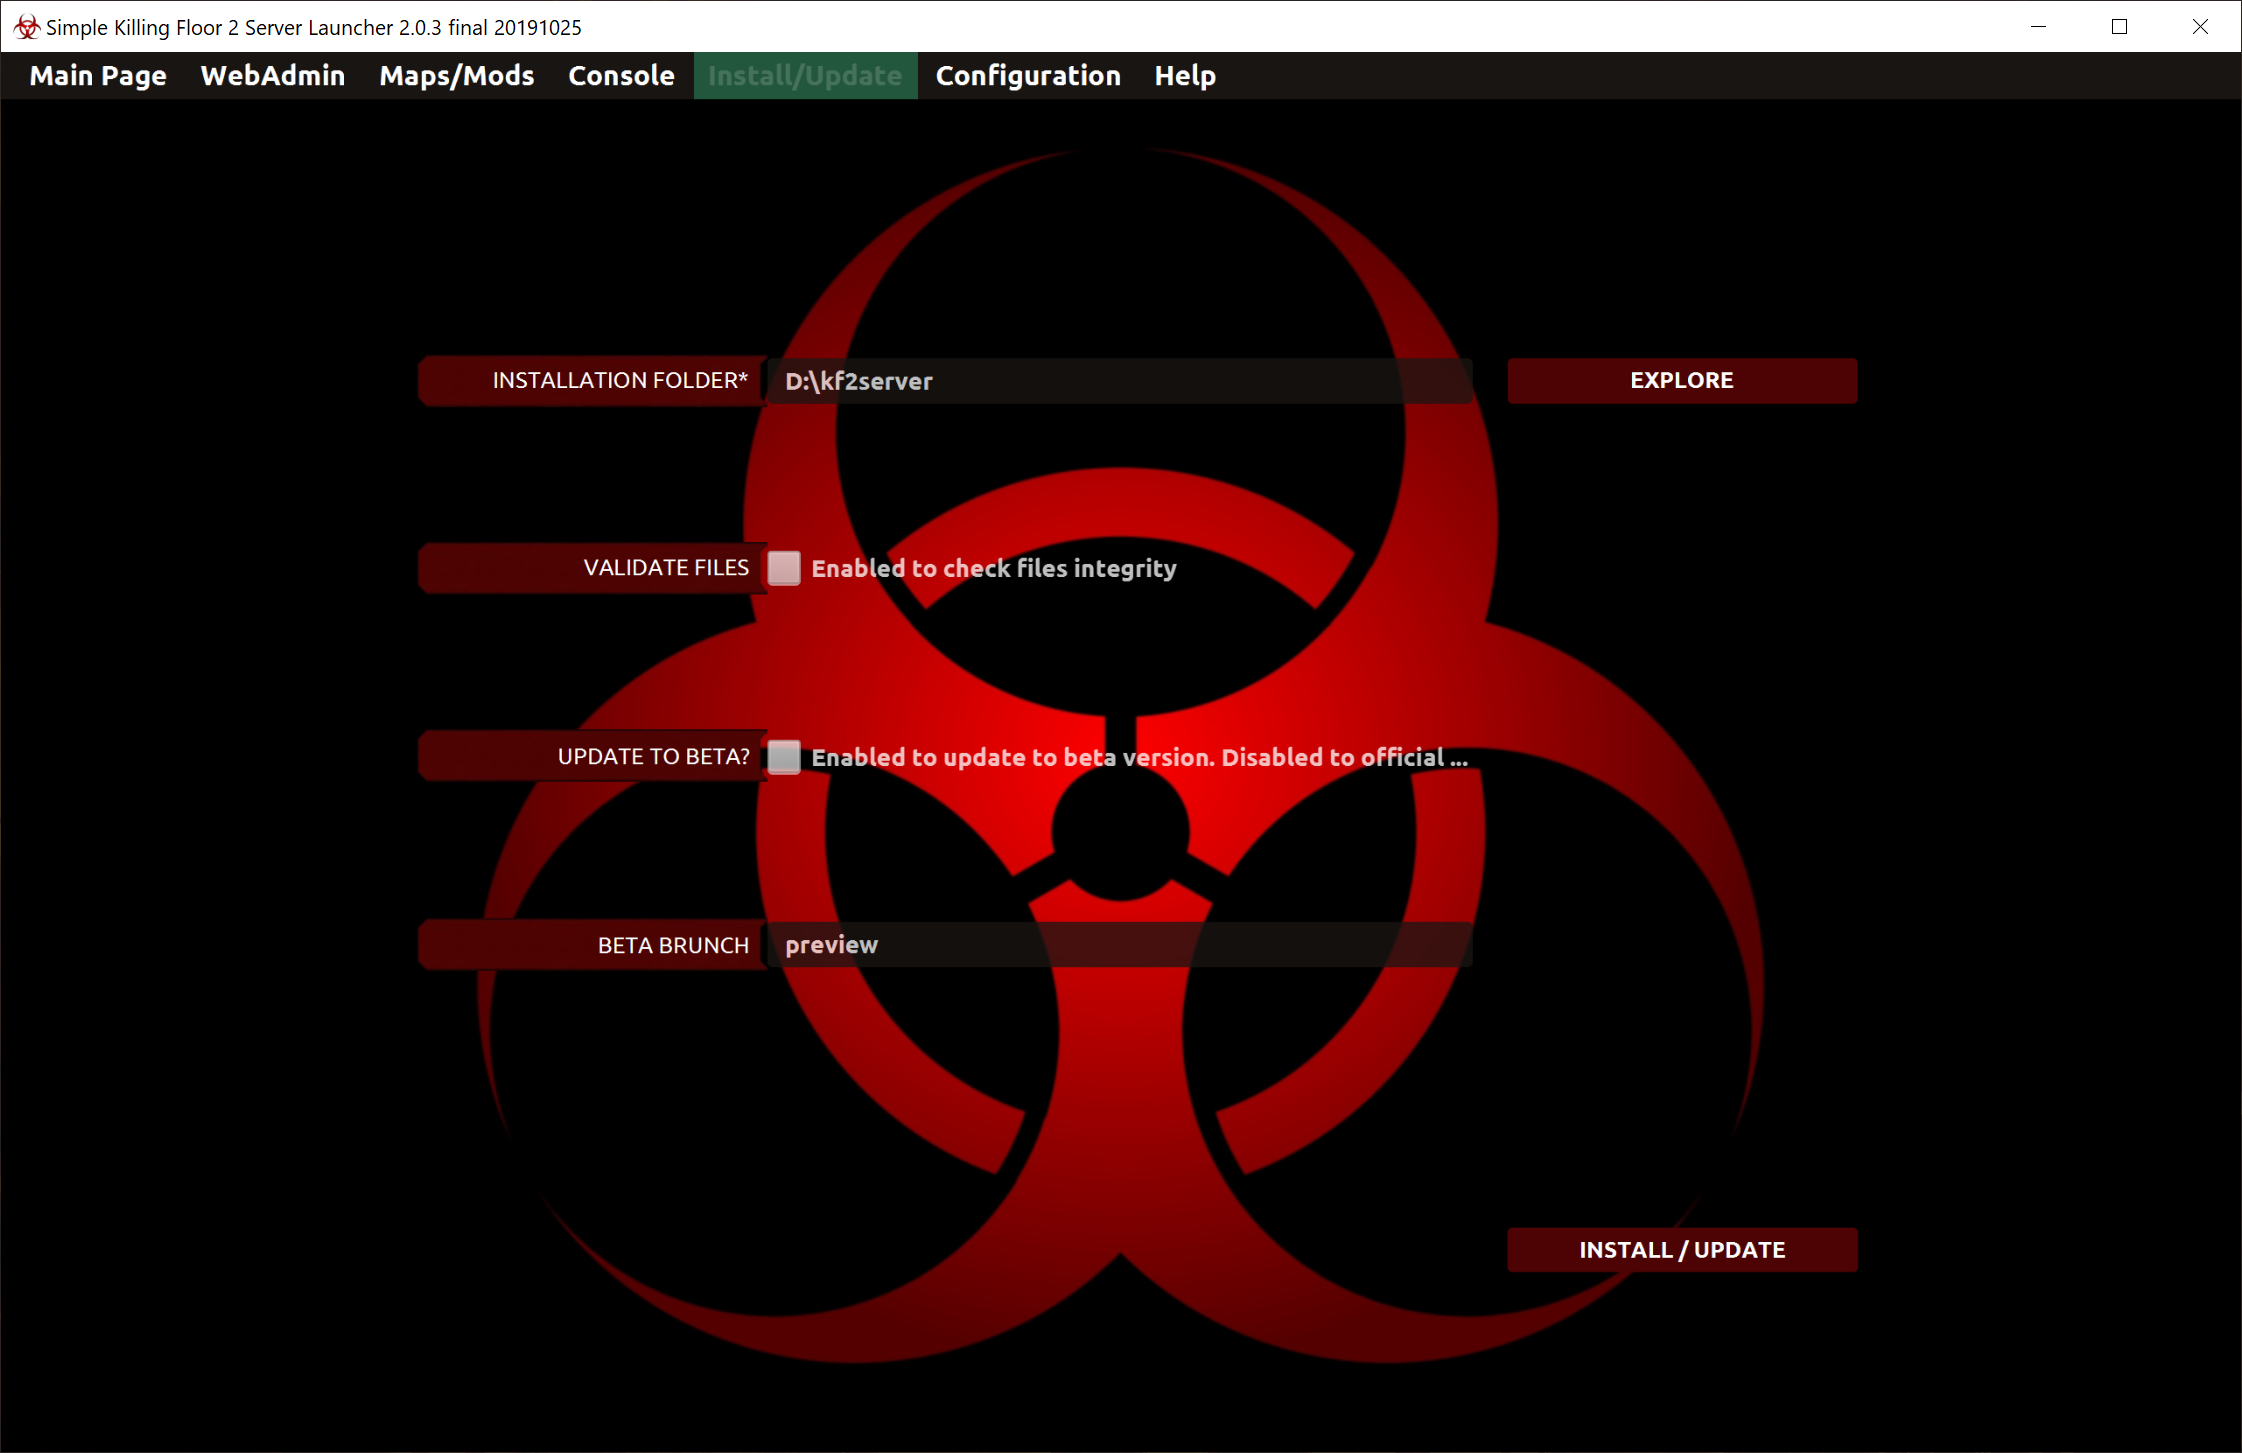
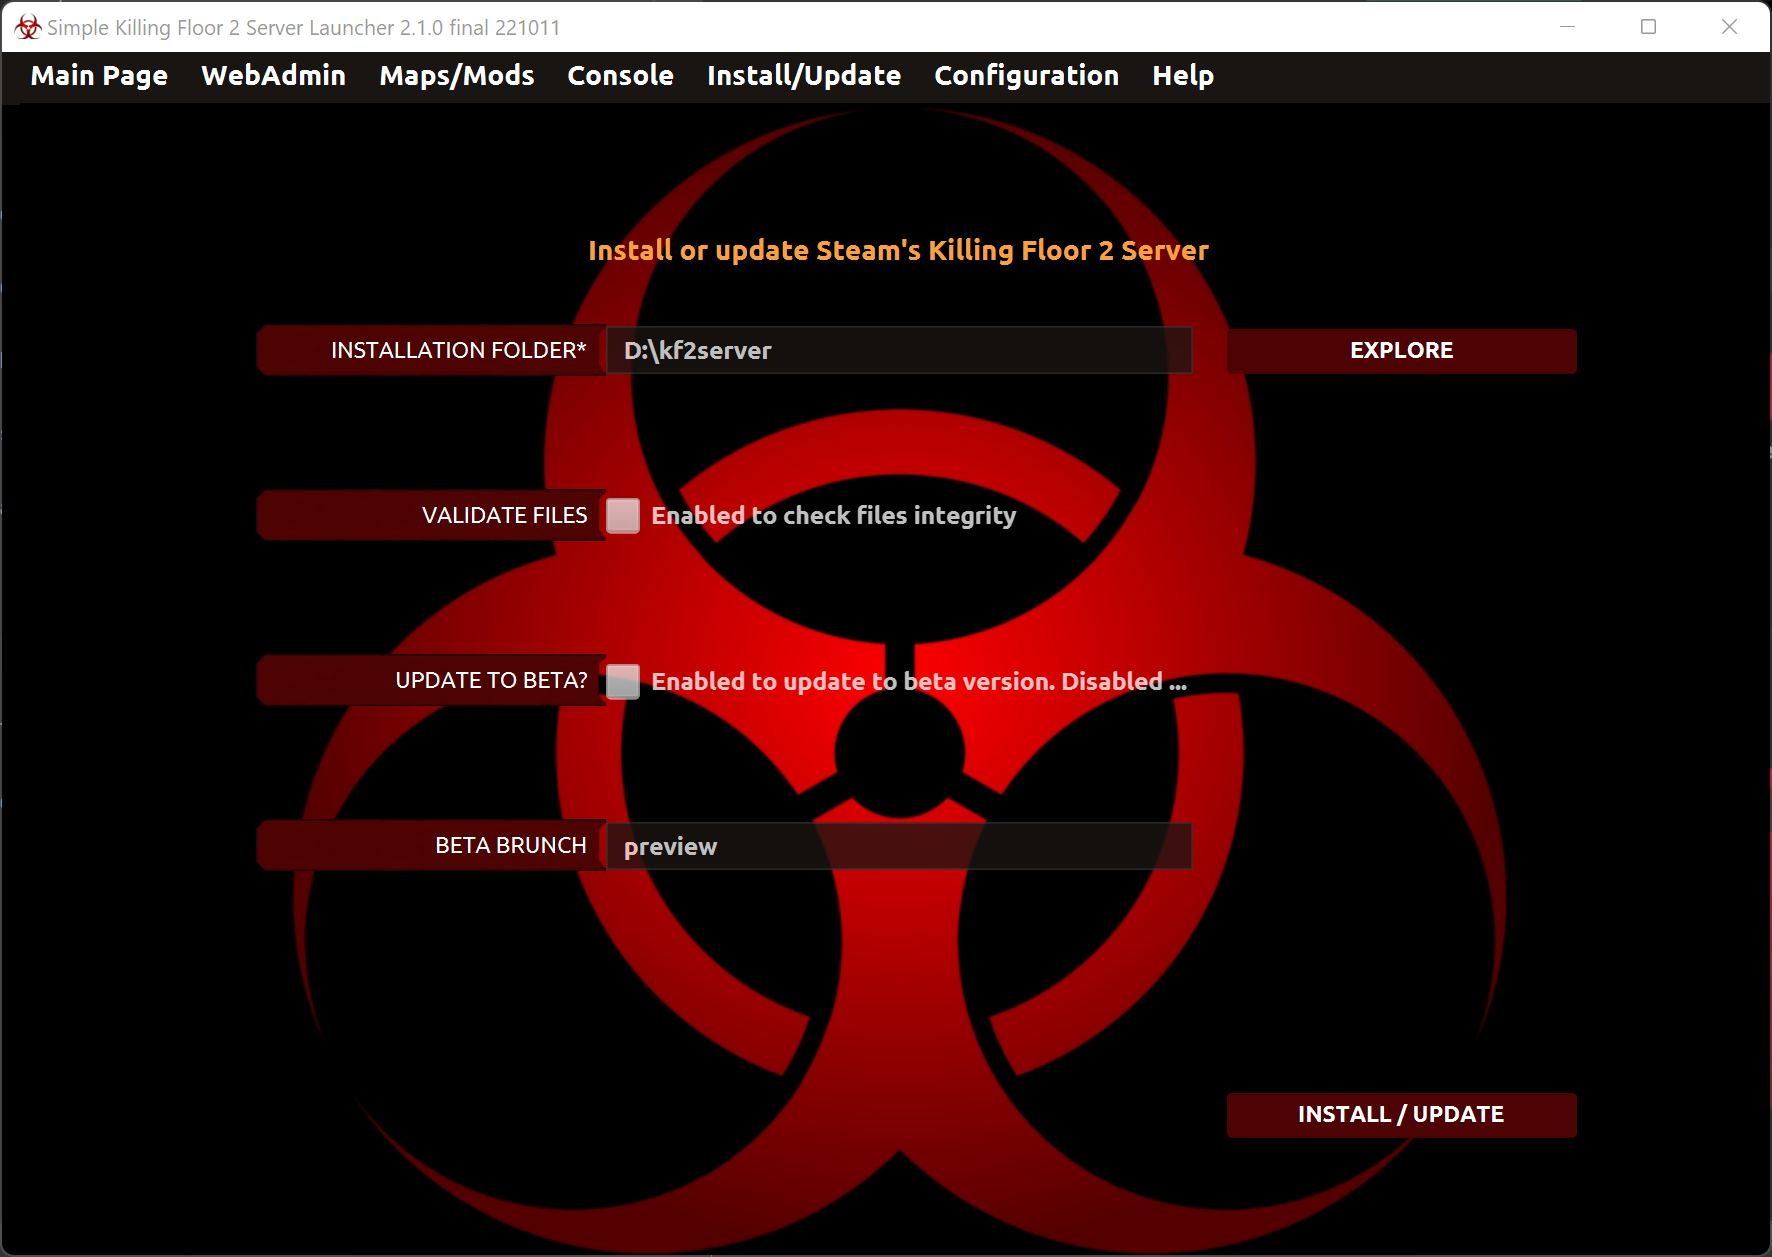
Updates in documentation and screenshots

diff --git a/doc/es/INSTALAR-SERVIDOR.md b/doc/es/INSTALAR-SERVIDOR.md
@@ -4,6 +4,8 @@
 
 En la página de Instalar/Actualizar puedes instalar o actualizar el servidor de Killing Floor 2.
 
+## Instalación de Steam
+
 ![Launcher screenshot](../images/screenshot03.png)
 
 * _Carpeta de instalación_: Este campo es obligatorio. Necesario para encontrar la carpeta local donde el servidor debe ser instalado.
@@ -13,6 +15,18 @@ En la página de Instalar/Actualizar puedes instalar o actualizar el servidor de
 * _¿Actualizar a beta?_: Este campo es opcional. Si está activado, la operación actualiza a una versión beta del juego (si estuviera disponible).
 
 * _Rama beta_: Este campo es opcional. El usuario especifica el nombre de la rama beta (sólamente usado cuando el check anterior ha sido activado).
+
+* _Botón de instalar/Actualizar_: Hace la operación de instalar o actualizar el servidor. Además, en el SO Linux, aplica un parche para poder descargar mapas de Steam WorkShop.
+
+## Instalación de Epic Games
+
+El servidor de Epic Games es instalado por defecto cuando el cliente es instalado en el ordenador, así que, el lanzador no instala el servidor sino que es usado para especificar la carpeta donde está instalado.
+
+![Launcher screenshot](../images/screenshot13.png)
+
+* _Carpeta de instalación_: Este campo es obligatorio. Necesario para encontrar la carpeta local donde el servidor está instalado.
+
+* _Botón de instalar/Actualizar_: Hace la operación de instalar o actualizar el servidor. Además, aplica un parche para poder descargar mapas de Steam WorkShop.
 
 ---
 Back to main page [here](../../LEEME.md).

diff --git a/doc/INSTALL-SERVER.md b/doc/INSTALL-SERVER.md
@@ -4,6 +4,8 @@
 
 Under Install/Update page you can install or update the Killing Floor 2 server.
 
+## Steam installation
+
 ![Launcher screenshot](images/screenshot03.png)
 
 * _Installation folder_: This field is mandatory. Needed to find the local folder where the server must be installed.
@@ -13,6 +15,18 @@ Under Install/Update page you can install or update the Killing Floor 2 server.
 * _Update to beta?_: This field is optional. If enabled, the operation updates to a beta version of the game (if available).
 
 * _Beta brunch_: This field is optional. The user specifies the name of the beta brunch (only used when last check was enabled).
+
+* _Install/Update button_: To do the install or update operation over the server. Farthermore, in Linux OS, it aplies a patch to be able to downloanload Steam WorkShop's maps.  
+
+## Epic Games installation
+
+Epic Games's server is installed by default when the client is installed in the computer, so, the launcher doesn't install the server but it is used for specify the folder where it is installed.
+
+![Launcher screenshot](images/screenshot13.png)
+
+* _Installation folder_: This field is mandatory. Needed to find the local folder where the server is installed.
+
+* _Install/Update button_: To do the update operation over the server. Farthermore, it aplies a patch to be able to downloanload Steam WorkShop's maps.
 
 ---
 Back to main page [here](../README.md).

diff --git a/LEEME.md b/LEEME.md
@@ -6,8 +6,9 @@ _[Click here to open documentation in english | Pulse aquí para abrir documenta
 Aplicación para personalizar y lanzar fácilmente un servidor de Killing Floor 2 a través de una interfaz visual en lugar de editar ficheros batch o de configuración del servidor. Ha sido desarrollado en Java y la interfaz es compatible con los S.O. Windows y Linux.
 
 ```
-Versión: 2.0.7 final
+Versión: 2.1.0 final
 S.O. soportados: Microsoft Windows y Linux (Ubuntu/Debian)
+Plataformas soportadas: Steam y Epic Games
 Desarrollado por: César Rodríguez González
 Idiomas: Inglés, Español, Francés
 Traducción a inglés y español: César Rodríguez González
@@ -24,7 +25,8 @@ Traducción a francés por: -foG.Nox
 
 ## Características
 
-- Instalar/actualizar el servidor a la última versión oficial o beta. 
+- Instalar/actualizar el servidor a la última versión oficial o beta.
+- Las plataformas soportadas son: Steam y Epic Games.
 - Lanzar el servidor con los parámetros especificados por el usuario en la página principal del lanzador.
 - Unirse a la partida en curso del servidor.
 - Abrir la página WebAdmin para administrar el servidor en ejecución.

diff --git a/doc/es/ANEXO.md b/doc/es/ANEXO.md
@@ -21,13 +21,14 @@ El lanzador permite ejecutar servidores a través de parámetros de terminal sin
 Los parámetros aceptados son: *Por ejemplo*:
 
 ```
-java -jar SimpleKF2ServerLauncher.jar --profiles nombrePerfil1 [nombrePerfil2 nombrePerfil3 ... ]
+java -jar SimpleKF2ServerLauncher.jar --pp platformName/profileName [platformName2/profileName2 ... ]
 ```
 *NOTE: [ ] significa que estos parámetros son opcionales*
 
-- Este comando ejecuta uno o varios servidores, uno por nombre de perfil.
-- Los nombres de perfiles deben estar separados por espacio en blanco.
-- Los nombres de perfiles deben existir en la base de datos del lanzador.
+- Este comando ejecuta uno o varios servidores, uno por nombre de plataforma y perfil.
+- Los nombres de plataforma/perfil deben estar separados por espacio en blanco.
+- Los nombres de plataformas deben existir en la base de datos del lanzador. Los valores válidos son: Steam y Epic.
+- Los nombres de perfiles deben existir en la base de datos del lanzador (sensible a mayúsculas).
 
 ---
 Back to main page [here](../../LEEME.md).

diff --git a/README.md b/README.md
@@ -6,8 +6,9 @@ _[Click here to open documentation in spanish | Pulse aquí para abrir documenta
 Application to easily customize and launch a Killing Floor 2 server through a visual interface instead of edditing batch files or server's config files. It has been developed with Java, so the interface is compatible on Windows and Linux OS.
 
 ```
-Version: 2.0.7 final
+Version: 2.1.0 final
 Supported OS: Microsoft Windows and Linux (Ubuntu/Debian)
+Supported platforms: Steam and Epic Games
 Developed by: César Rodríguez González
 Languages: English, Spanish, French
 Translation to english and spanish: César Rodríguez González
@@ -25,6 +26,7 @@ Translation to french by: -foG.Nox
 ## Features
 
 - Install/Update server to the latest official or beta version.
+- Supported platforms are: Steam and Epic Games.
 - Launch the server with specified parameters by the user in launcher's main page.
 - Join the running server's match.
 - Open WebAdmin page to administrate the running server.

diff --git a/doc/ANNEX.md b/doc/ANNEX.md
@@ -20,13 +20,14 @@ The launcher allows to execute servers through terminal parameters without user 
 
 Accepted parameters are: *For example*
 ```
-java -jar SimpleKF2ServerLauncher.jar --profiles profileName1 [profileName2 profileName3 ... ]
+java -jar SimpleKF2ServerLauncher.jar --pp platformName/profileName [platformName2/profileName2 ... ]
 ```
 *NOTE: [ ] means that these parameters are optional*
 
-- This command executes one or multiple servers, one per profileName.
-- The profile names must be separated by whitespace.
-- The profile names must exist in launcher's database.
+- This command executes one or multiple servers, one per platformName and profileName.
+- The plarform/profile names must be separated by whitespace.
+- The platform names must exist in launcher's database. Valid values are: Steam and Epic.
+- The profile names must exist in launcher's database (case sensitive).
 
 ---
 Back to main page [here](../README.md).

diff --git a/doc/BASIC-CONFIGURATION.md b/doc/BASIC-CONFIGURATION.md
@@ -5,6 +5,8 @@
 ## Main page
 ![Launcher screenshot](images/screenshot00.png)
 
+* _Platform_: This combo is mandatory. It allows to select the platform where the server is installed.
+ 
 * _Profile_: This combo is mandatory. It allows to customize filter values by profile name.
 
 * _Run server_: Run a Killing Floor 2 server with the specified filters. All mandatory fields must be specified. Server config files are placed in folder: KFGame/Config/PROFILENAME. So, the original config files placed in folder: KFGame/Config are never modified.
@@ -46,6 +48,7 @@ If more than one profile, you can select wich server you want to join (one per p
 * _Welcome message_: This field is optional. It's a welcome message in starting screen of the server.
 
 #### Advanced parameters
+
 ![Launcher screenshot](images/screenshot01.png)
 
 * _Map voting_: This check enables or disables map voting screen after a game ends.

diff --git a/doc/PRE-REQUISITES.md b/doc/PRE-REQUISITES.md
@@ -12,7 +12,7 @@
   | Steam Port  | 20560    | UDP       |                                                                             |
   | NTP Port    | 123      | UDP       | Weekly Outbreak Only - Internet time lookup to determine correct Outbreak   |
 
-- Install Oracle JDK 17 or later (Java Development Kit) or OpenJDK in order to be able to execute the launcher.
+- Install Oracle JDK 17 or a newer one (Java Development Kit) or OpenJDK in order to be able to execute the launcher.
   - JDK can be downloaded from [here](https://www.oracle.com/java/technologies/downloads/).
   - OpenJDK can be downloaded from [here](https://openjdk.java.net/).
 

diff --git a/doc/es/MAPAS-PERSONALIZADOS.md b/doc/es/MAPAS-PERSONALIZADOS.md
@@ -22,7 +22,7 @@ En la página Mapas/Mods puedes gestionar mapas personalizados, mods y mapas ofi
 
 * _Filtro buscador_: Permite filtrar mapas y mods por nombre mientras vas escribiendo el texto. 
 
-* _Selecciona todos_: Permite seleccionar todos los mapas para realizar una acción sobre ellos. Además permite deseleccionarlos.
+* _Selecciona todos por pestaña_: Permite seleccionar todos los mapas para realizar una acción sobre ellos. Además permite deseleccionarlos.
 
 * _Barra de columnas_: Permite cambiar el tamaño de las miniaturas de los mapas según un número de columnas determinado. 
 

diff --git a/doc/CUSTOM-MAPS.md b/doc/CUSTOM-MAPS.md
@@ -22,7 +22,7 @@ Under Maps/Mods page you can manage custom maps, mods and official maps present 
 
 * _Search filter_: It allows to filter maps and mods by name while you are writing the text.
 
-* _Select all_: It allows to select all maps to perform an action over them. Furthermore it allows to unselect them.
+* _Select all per tab_: It allows to select all maps to perform an action over them. Furthermore it allows to unselect them.
 
 * _Columns slider_: It allows to change the thumbnail size of the maps by the specific number of columns.
 

diff --git a/doc/es/CONFIGURACION-BASICA.md b/doc/es/CONFIGURACION-BASICA.md
@@ -3,7 +3,10 @@
 # Configuración básica
 
 ## Página principal
+
 ![Launcher screenshot](../images/screenshot00.png)
+
+* _Plataforma_: Este combo es obligatorio. Permite seleccionar la plataforma donde está instalado el servidor.
 
 * _Perfil_: Este combo es obligatorio. Permite personalizar los valores de los filtros por nombre de perfil.
 

diff --git a/doc/es/INSTALAR-LANZADOR.md b/doc/es/INSTALAR-LANZADOR.md
@@ -25,8 +25,5 @@ $ java -jar SimpleKF2ServerLauncher.jar
 ```
 *NOTA: Reemplaza SimpleKF2ServerLauncher-local-folder por la carpeta local que quieras.*
 
-*NOTA: JRE debe ser la versión de Oracle (no OpenJDK disponible en los repositorios).*
-
-
 ---
 Back to main page [here](../../LEEME.md).
